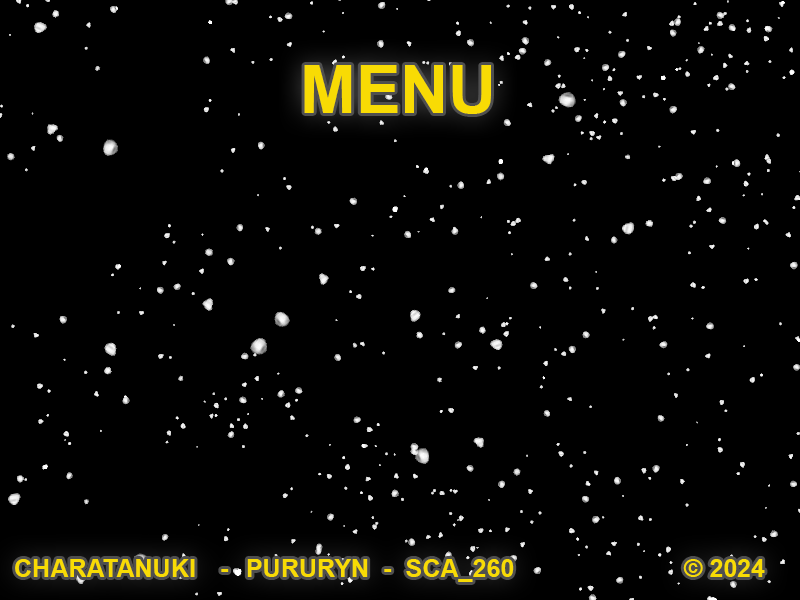
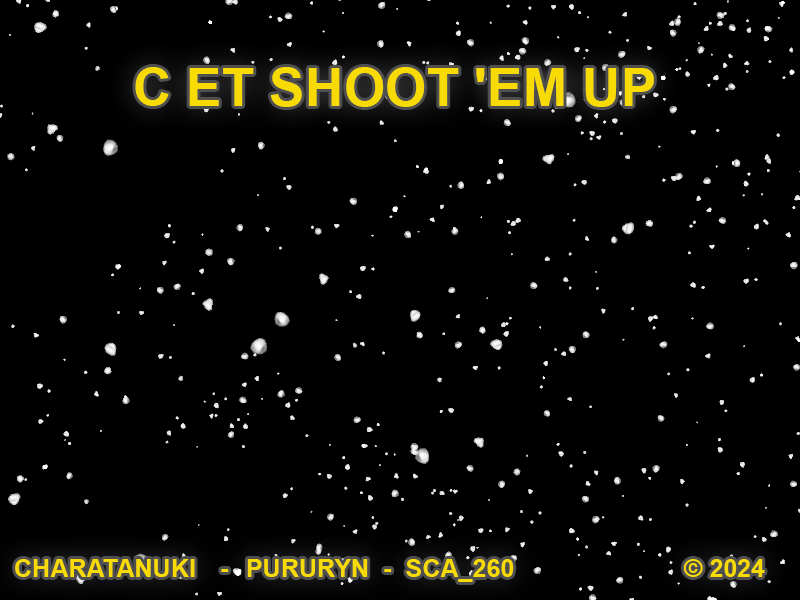
C et shoot 'em up

Changed region(s): [[0.1562, 0.09, 0.8438, 0.21]]

diff --git a/R-Type/Main.c b/R-Type/Main.c
@@ -9,7 +9,7 @@
 
 int main(int argc, char* argv[]) {
 	initSDL();	
-	SDL_Window* window = SDL_CreateWindow("R-type-game",
+	SDL_Window* window = SDL_CreateWindow("C et shoot 'em up",
 		SDL_WINDOWPOS_UNDEFINED, SDL_WINDOWPOS_UNDEFINED,
 		winX, winY, SDL_WINDOW_SHOWN);
 
